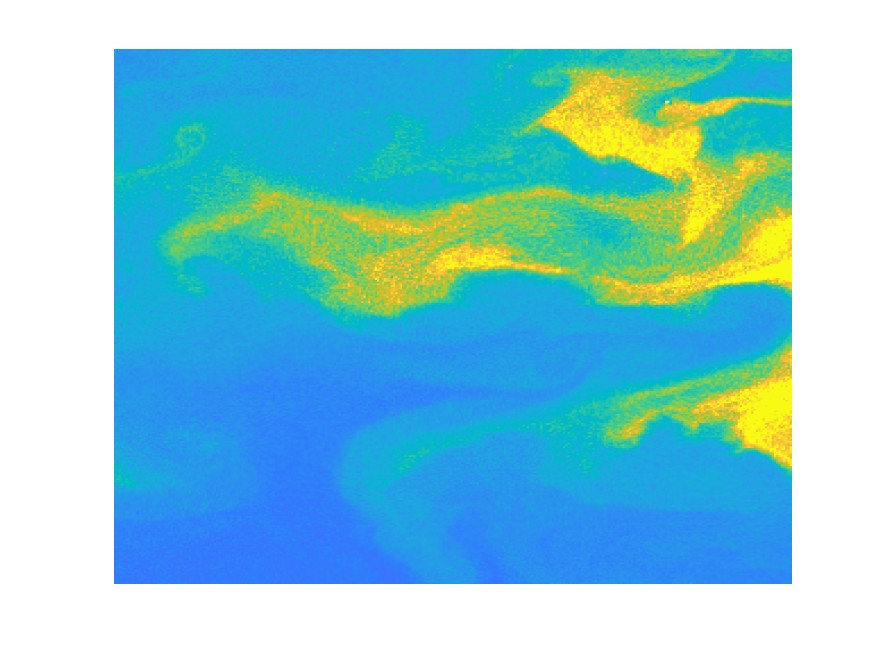
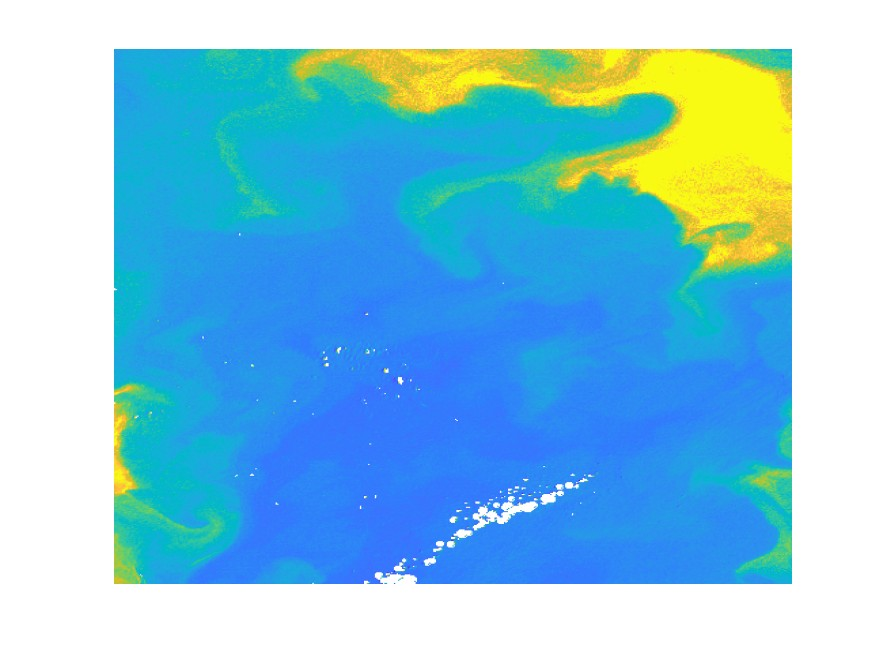
Get inpterpolated image

diff --git a/surface_current/save_custom_chl_image.m b/surface_current/save_custom_chl_image.m
@@ -2,13 +2,13 @@ clc;
 
 
 for day = 11:11
-    minX = 1520;
-    maxX = 1820;
-    minY = 1198;
-    maxY = 1498;
+    minX = 2071;
+    maxX = 2570;
+    minY = 271;
+    maxY = 770;
 
 
-    for time = 10:15
+    for time = 9:15
 
       fprintf('start  23.10.%d / %d:15 ... \n\n',day, time)
 
@@ -71,7 +71,7 @@ for day = 11:11
       filename = sprintf('23-10-%d_%d15', day, time);
 
 
-      save_path = './상왕등도_data/';
+      save_path = './sample_300x300_1/';
       if ~exist(save_path, 'dir')
           mkdir(save_path);
       end
